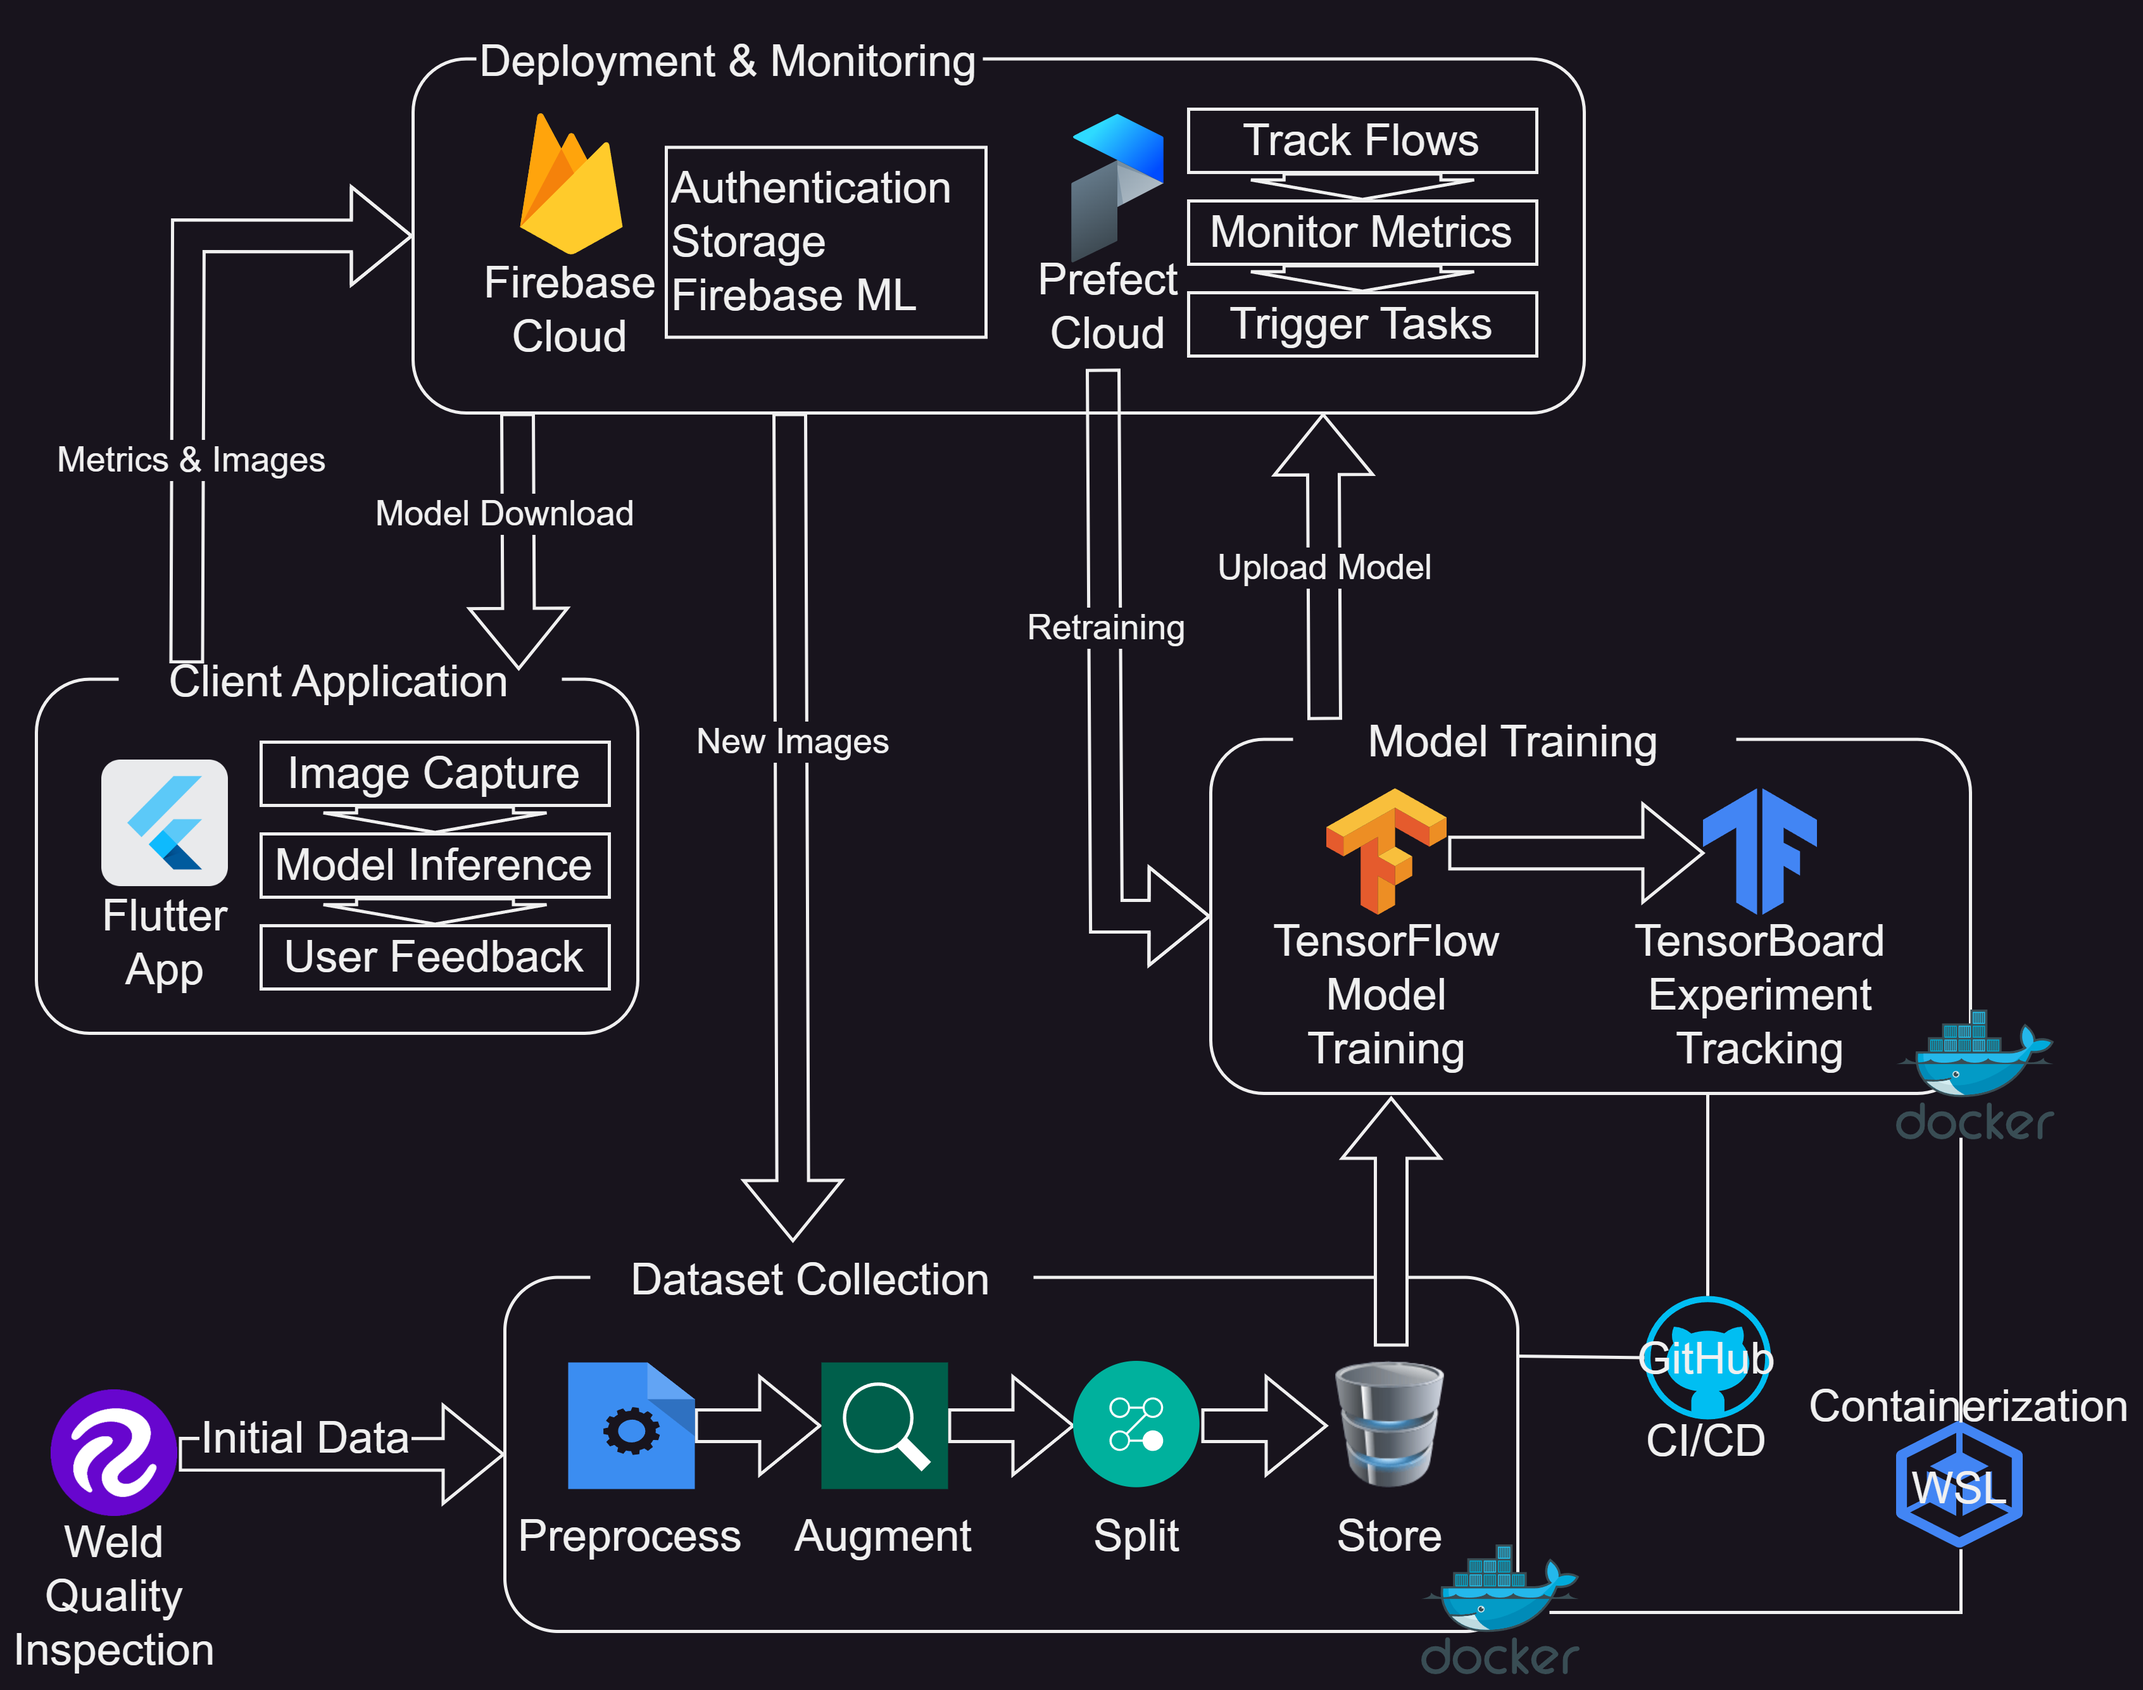
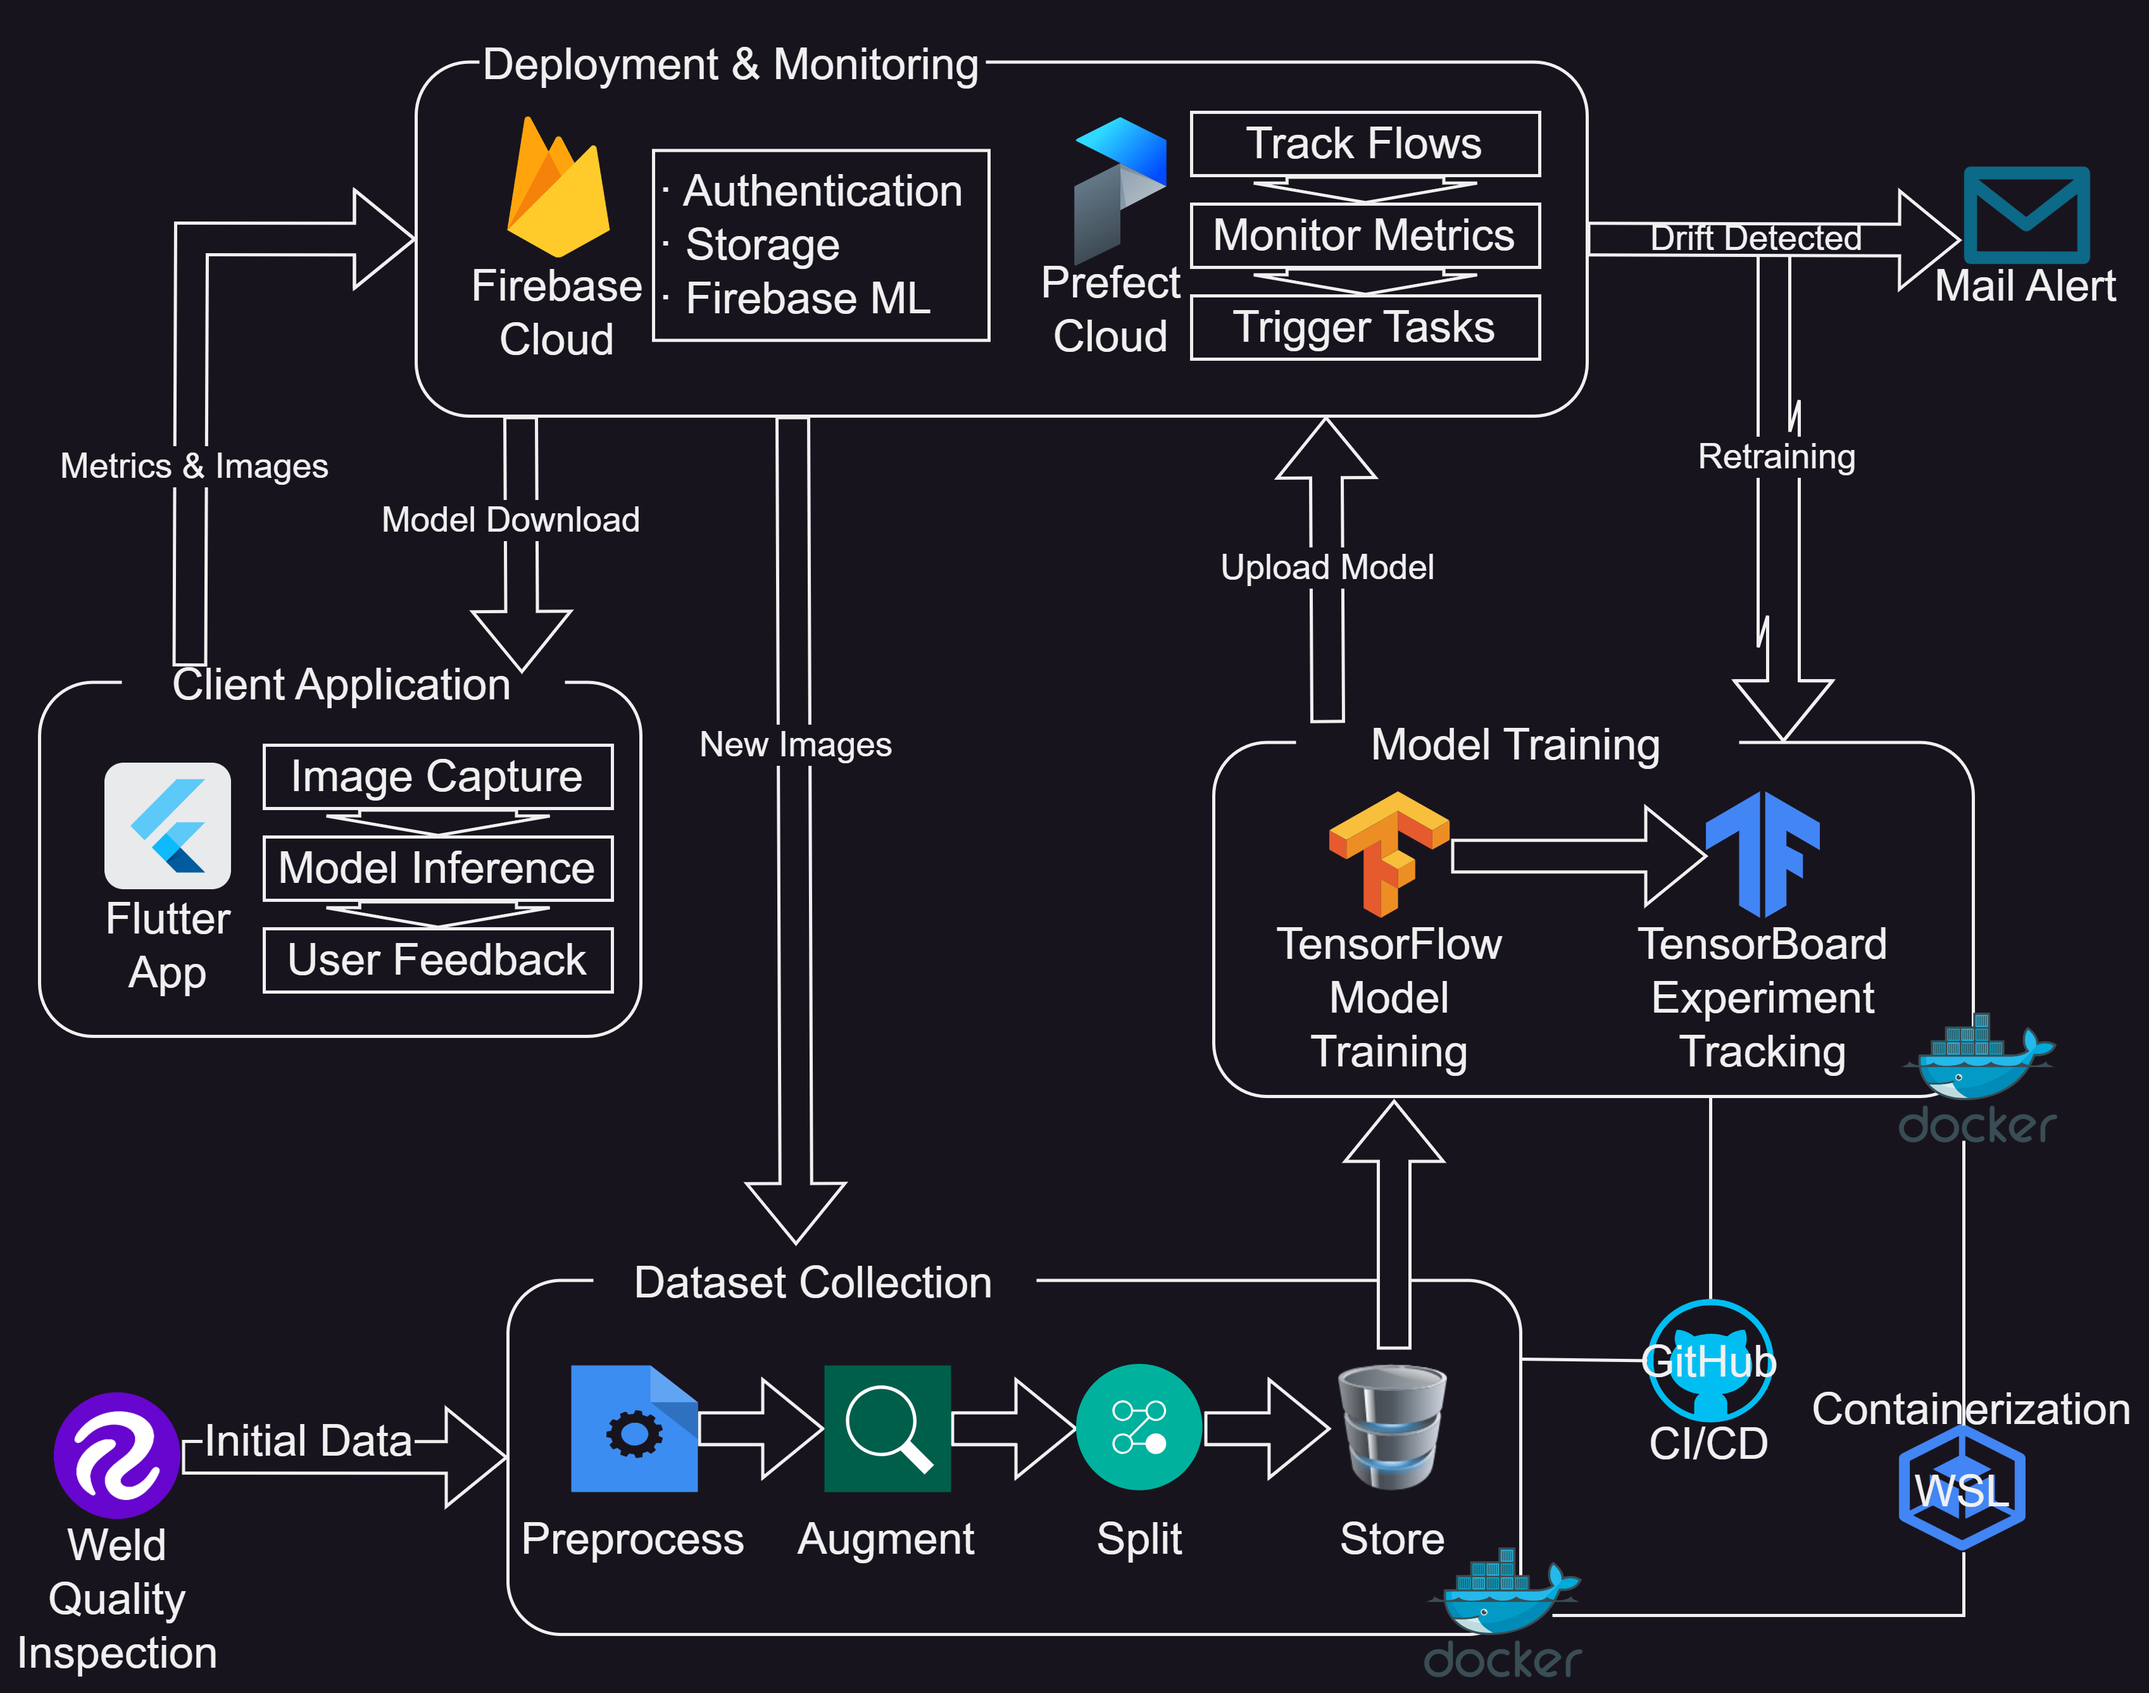
finished cloud documentation

diff --git a/README.md b/README.md
@@ -47,19 +47,19 @@ This project is divided into three main components: The modeling service, the cl
 
 Following sections overview the technologies employed. You can skip to the [Installation](#Installation) section for instructions on how to configure everything (including the creation of cloud accounts).
 
-.pre-commit-config.yaml
 The base structure of the project contains the following:
 
 ```
-README.md: The document you are reading now. Please, follow the instructions carefully.
-.pre-commit-config.yaml: The pre-commit hooks.
-Makefile: The make scripts for settings most of the things in this project.
-modeling/: The data prepration and model training and deployment. Contents explained later.
-client/: The client flutter app, explained later.
-images/: Images used by the readme.
-.env: File will be created after following instructions. Used to pass environment variables through the scripts.
-google-services.json: File will be created after following instructions. Settings configured in the cloud.
-serviceAdmin.json: File will be created after following instructions. Admin keys for managing the cloud.
+WeldSpot/
+├─README.md: The document you are reading now. Please, follow the instructions carefully.
+├─.pre-commit-config.yaml: The pre-commit hooks.
+├─Makefile: The make scripts for settings most of the things in this project.
+├─modeling/: The data prepration and model training and deployment. Contents explained later.
+├─client/: The client flutter app, explained later.
+├─images/: Images used by the readme.
+├─.env: File will be created after following instructions. Used to pass environment variables through the scripts.
+├─google-services.json: File will be created after following instructions. Settings configured in the cloud.
+├─serviceAdmin.json: File will be created after following └─instructions. Admin keys for managing the cloud.
 ```
 
 ## Data
@@ -134,7 +134,7 @@ If conflicts arise, you may check the Makefile `setup` and `dependencies_` scrip
 
 ## Accounts setting
 
-All of the 3 services we are going to create and account with allow to use google and similar accounts to avoid having to create accounts with mail and password. So you may consider that.
+All of the 3 services we are going to create an account with allow to use google and similar accounts to avoid having to create accounts with mail and password. So you may consider that.
 
 ### Roboflow
 
@@ -181,11 +181,11 @@ Here we are going to send an alert when there is drift. So, besides retraining (
 
 ![Create Automation](images/PrefectAutomationCreate.png)
 
-2. First, we need the trigger (the event that causes the automation to start). We select **Custom** as the type, and write "drift.detected" as the matching event and "dataset.auc" as the resource. Configuration should look like following image.
+2. First, we need the trigger (the event that causes the automation to start). We select **Custom** as the type, and write "drift.detected" as the matching event and "dataset.auc" as the resource. This is the even name I've set in the project code. It may not appear listed in prefect cloud search as you type, but that is not a problem. Configuration should look like following image.
 
 ![Automation Trigger](images/PrefectAutomationTrigger.png)
 
-3. Next, as action we pick _Send a notification_. We can leave the default body. Now we click on the **Block** option to fill it.
+3. Next, as action we pick _Send a notification_. We can leave the default content. Now we click on the **Block** option to fill it.
 
 ![Automation Action](images/PrefectAutomationAction.png)
 
@@ -197,7 +197,7 @@ Here we are going to send an alert when there is drift. So, besides retraining (
 
 ### Firebase
 
-1. Sign-in into [Firebase Console](https://console.firebase.google.com/u/0/) and create a project with "Start with Firebase Project" option. (We don't need credit card information).
+1. Sign-in into [Firebase Console](https://console.firebase.google.com/u/0/) and create a project with "Start with Firebase Project" option. (We **don't** need credit card information).
 
 ![Firebase Account](images/FirebaseCreateProject.png)
 
@@ -229,25 +229,25 @@ To configure Storage, we select "All products" on the left side menu and pick th
 
 ![All products](images/FirebaseProducts.png)
 
-In the Storage configuration, we select development mode for the security rules, and the location that is most close to us if possible. Wait for the bucket to be created.
+In the Storage configuration, we select development mode for the security rules, and the geographic location that is most close to us if possible. Wait for the bucket to be created.
 
 ![Firebase Storage](images/FirebaseStorageBucket.png)
 
-We will now copy the bucket URL, it should look like "gs://project-name-id.appspot.com", we copy it without the "gs://" and without the ".appspot.com" parts. (This is our project unique identifier we will use later). So, copy the code "project-name-id" part and save in a text note for later.
+We will now copy the bucket URL, it should look like "gs://project-name-id.appspot.com", **we copy it without the "gs://" and without the ".appspot.com" parts**. (This is our project unique identifier we will use later). So, **copy the code "project-name-id" part and save in a text note for later**.
 
 #### Authentication (Firebase)
 
 Because users upload images to the cloud, we require authentication to connect to the service. End-users will be able to send images for the drift analysis and retraining when logged in.
 
-We can set multiple authentications (e.g., email, github, google, etc), but the project currently does not implement any.
+We can set multiple authentications methods (e.g., email, github, google, etc), but the project currently does not implement any.
 
 We start by going to the All products, like before, and select Authentication and start.
 
-We select the native provided "Anonymous" and enable it, so we don't force users to be logged in without any account, only logged as guests. (**![Privacy Warning](images/Warning.png) Note this is just for development purposes, as you would not want unidentified users uploading images**).
+We select the native provided "Anonymous" and enable it, so we don't force users to be logged in without any account, only logged as guests (anonymous authentication is not the same as no authentication). (**![Privacy Warning](images/Warning.png) Note this is just for development purposes, as you would not want unidentified users uploading images**).
 
 #### Firebase ML
 
-Finally, models are also deployed through Firebase, as it offers a way to store the tensorflow lite files (used by the flutter app).
+Finally, models are also deployed through Firebase, as it offers a way to store the tensorflow lite ML models (used by the flutter app).
 
 Again, we go to **All products**, and select **Machine Learning**. As we implement our own trained model, we are not using Google's Machine Learning services (only the storage). Therefore, we go to the Custom Tab.
 
@@ -257,9 +257,21 @@ There, we can manually manage our models. But the project already programmed the
 
 #### Admin download
 
-The access through the devices and from the dataset collection and model deployment services has been programmed. Nonetheless, we need access to the proper firebase credentials.
+The access through the devices and from the dataset collection and model deployment services has been programmed. Nonetheless, we need access to the proper firebase credentials for the data collection and modeling service.
 
-To do this, we
+On the Firebase Console upper left side, click on the settings wheel and go to project configuration:
+
+![Firebase Settings](images/FirebaseProjectSettings.png)
+
+Next we go to the "service accounts" tab, and like in the following image we click on the generate private keys.
+
+![Firebase Services](images/FirebaseAccountServices.png)
+
+Confirm creating the pair and this will download a file named like "firebase-project-f2109-firebase-adminsdk-68klm-bt5ge88216.json": We rename it only to "serviceAdmin.json" and move it to the project folder, where we moved the google-services.json file too.
+
+**![Privacy Warning](images/Warning.png) Don't share the file as it contains private info**.
+
+Congrats! The funny part of creating accounts is complete, now the nightmare of setting the project begins :(
 
 ## Project setting
 
